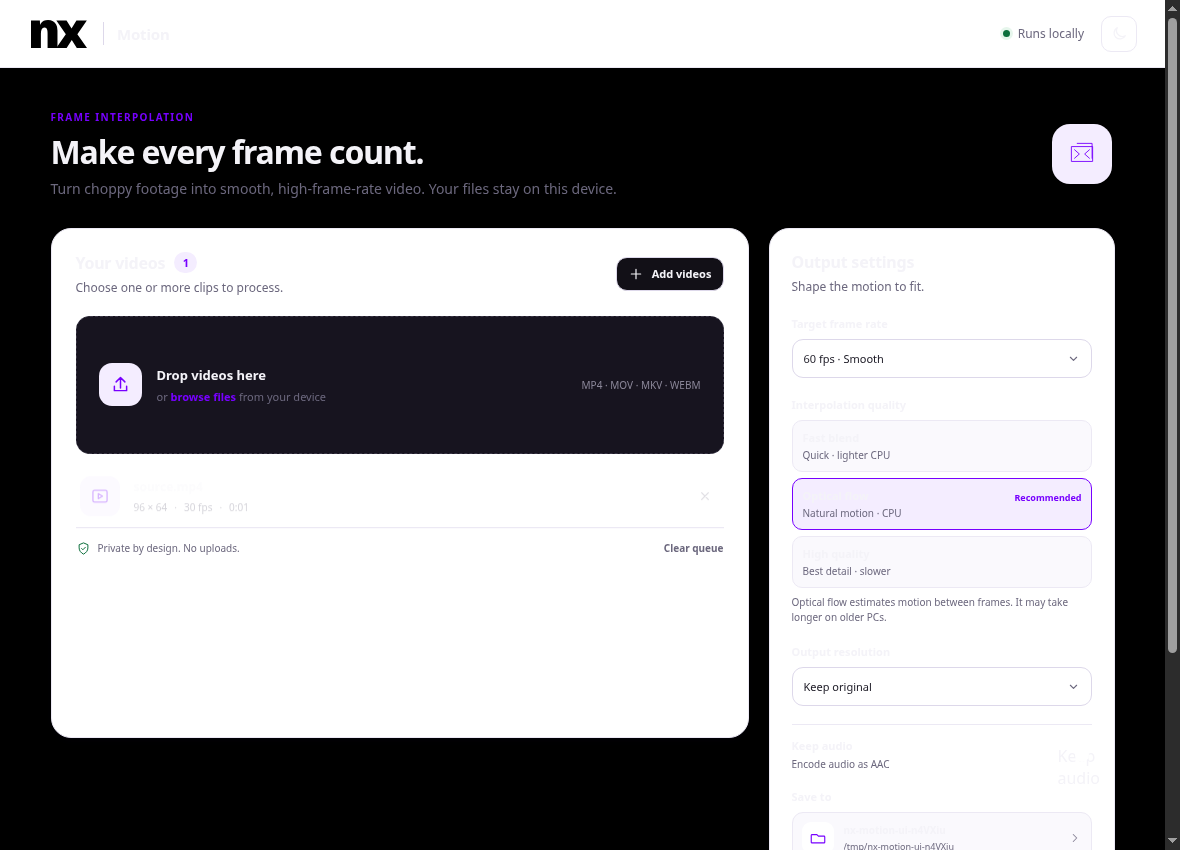
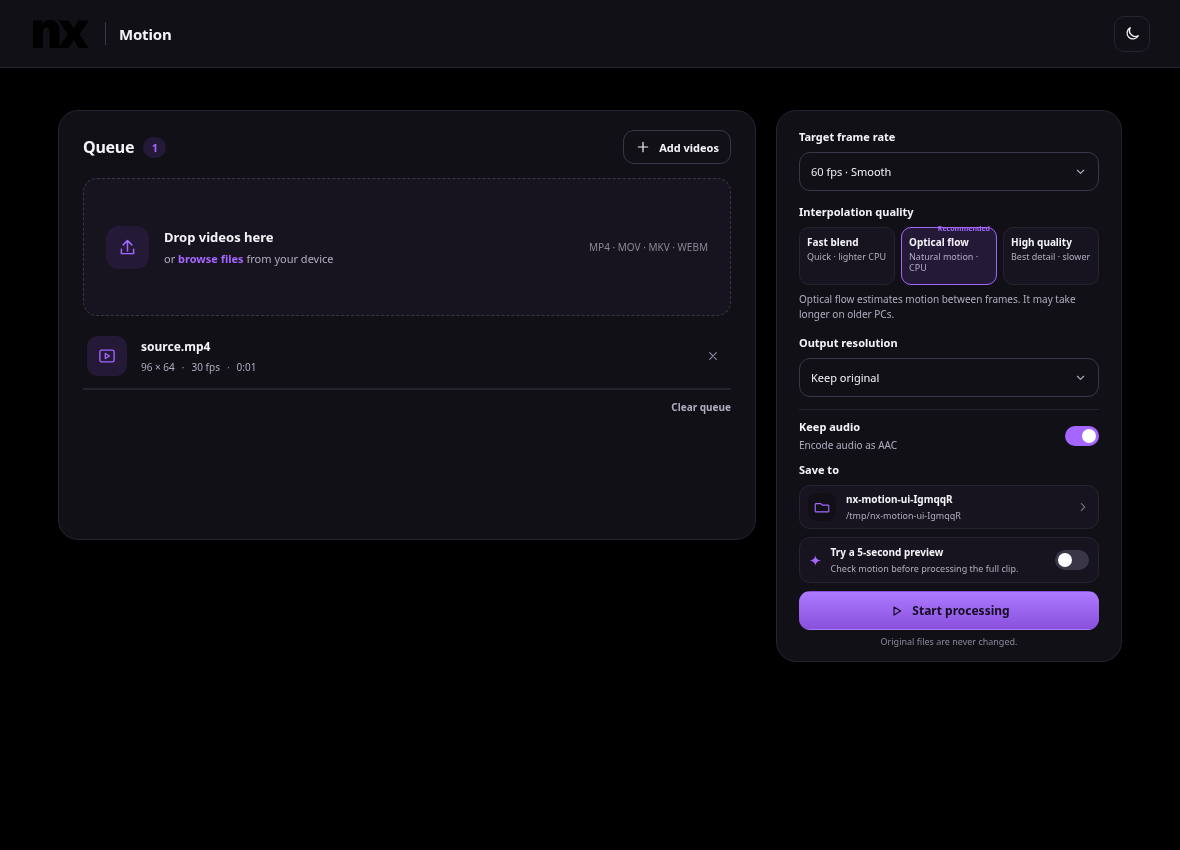
fix: trim UI copy and validate desktop export flow

diff --git a/src/renderer/styles.css b/src/renderer/styles.css
@@ -1,6 +1,10 @@
-:root{--clear-bg:#fafafc;--clear-surface:#fff;--clear-tile:#faf9fd;--clear-ink:#1a1823;--clear-muted:#6c687e;--clear-faint:#8b8799;--clear-line:#ece9f4;--clear-line-strong:#ddd8ea;--violet:#7700ff;--violet-soft:#f4edff;--accent-fill:linear-gradient(180deg,#8c37ff 0%,var(--violet) 100%);--on-accent:#fff;--good:#0c6f3c;--good-soft:#e6f6ec;--danger:#c22030;--radius-panel:20px;--radius-card:14px;--radius-control:11px;--shadow-card:0 1px 2px rgba(40,20,90,.05),0 4px 12px -4px rgba(40,20,90,.10);--focus:0 0 0 2px var(--violet),0 0 0 5px var(--violet-soft);font-family:'DM Sans',Inter,system-ui,-apple-system,'Segoe UI',sans-serif;color:var(--clear-ink);background:var(--clear-bg)}
 :root{--clear-bg:#fafafc;--clear-surface:#fff;--clear-tile:#faf9fd;--clear-ink:#1a1823;--clear-muted:#6c687e;--clear-faint:#8b8799;--clear-line:#ece9f4;--clear-line-strong:#ddd8ea;--violet:#7700ff;--violet-soft:#f4edff;--accent-fill:linear-gradient(180deg,#8c37ff 0%,var(--violet) 100%);--on-accent:#fff;--good:#0c6f3c;--good-soft:#e6f6ec;--danger:#c22030;--radius-panel:20px;--radius-card:14px;--radius-control:11px;--shadow-card:0 1px 2px rgba(40,20,90,.05),0 4px 12px -4px rgba(40,20,90,.10);--focus:0 0 0 2px var(--violet),0 0 0 5px var(--violet-soft);font-family:Inter,system-ui,-apple-system,'Segoe UI',sans-serif;color:var(--clear-ink);background:var(--clear-bg)}
 @media(prefers-color-scheme:dark){:root:not([data-theme="light"]){--clear-bg:#000;--clear-surface:#121017;--clear-tile:#17141f;--clear-ink:#f4f3f8;--clear-muted:#b0acbf;--clear-faint:#8b8799;--clear-line:#262330;--clear-line-strong:#3a3647;--violet:#a566ff;--violet-soft:#241a38;--accent-fill:linear-gradient(180deg,#ad7aff 0%,#8950dc 100%);--on-accent:#140b22;--good:#4cd97b;--good-soft:#12291b;--danger:#ff6876;--shadow-card:none}}
 :root[data-theme="dark"]{--clear-bg:#000;--clear-surface:#121017;--clear-tile:#17141f;--clear-ink:#f4f3f8;--clear-muted:#b0acbf;--clear-faint:#8b8799;--clear-line:#262330;--clear-line-strong:#3a3647;--violet:#a566ff;--violet-soft:#241a38;--accent-fill:linear-gradient(180deg,#ad7aff 0%,#8950dc 100%);--on-accent:#140b22;--good:#4cd97b;--good-soft:#12291b;--danger:#ff6876;--shadow-card:none}
 *{box-sizing:border-box}body{margin:0;min-width:320px;min-height:100vh;background:var(--clear-bg);color:var(--clear-ink);transition:background .2s,color .2s}button,input,select{font:inherit}button{color:inherit}button:focus-visible,a:focus-visible,[tabindex="0"]:focus-visible,select:focus-visible,input:focus-visible{outline:none;box-shadow:var(--focus)}.app-shell{min-height:100vh}.topbar{height:68px;border-bottom:1px solid var(--clear-line);display:flex;align-items:center;justify-content:space-between;padding:0 max(28px,calc((100% - 1120px)/2));background:var(--clear-surface)}.brand{display:flex;align-items:center;gap:13px;color:inherit;text-decoration:none}.brand img{width:62px;height:28px;object-fit:contain}.brand-divider{height:23px;border-left:1px solid var(--clear-line-strong)}.product-name{font-weight:650;font-size:15px;letter-spacing:-.2px}.topbar-right{display:flex;align-items:center;gap:17px}.local-badge{display:flex;align-items:center;gap:8px;font-size:12px;color:var(--clear-muted)}.local-dot{width:7px;height:7px;background:var(--good);border-radius:50%;box-shadow:0 0 0 3px var(--good-soft)}.icon-button{height:36px;width:36px;display:grid;place-items:center;border:1px solid var(--clear-line);background:var(--clear-surface);border-radius:10px;cursor:pointer}.icon-button:hover{background:var(--clear-tile)}.icon-button svg{width:17px;fill:none;stroke:currentColor;stroke-width:1.8;stroke-linecap:round;stroke-linejoin:round}.main-content{max-width:1120px;margin:0 auto;padding:42px 28px 24px}.intro{display:flex;align-items:center;justify-content:space-between;margin:0 0 30px}.eyebrow{margin:0 0 9px;color:var(--violet);font-size:10px;letter-spacing:1.35px;font-weight:700}.intro h1{font-size:32px;letter-spacing:-1.1px;margin:0 0 8px;font-weight:650;line-height:1.18}.intro-copy{margin:0;color:var(--clear-muted);font-size:14px}.intro-mark{width:60px;height:60px;border-radius:18px;background:var(--violet-soft);display:grid;place-items:center;margin-right:3px}.intro-mark svg{width:34px;fill:none;stroke:var(--violet);stroke-width:1.7;stroke-linecap:round;stroke-linejoin:round}.workspace{display:grid;grid-template-columns:minmax(0,1fr) 346px;align-items:start;gap:20px}.panel{background:var(--clear-surface);border:1px solid var(--clear-line);border-radius:var(--radius-panel);box-shadow:var(--shadow-card)}.queue-panel{padding:23px 24px 15px;min-height:510px}.settings-panel{padding:22px 22px 16px}.panel-heading{display:flex;align-items:center;justify-content:space-between;margin-bottom:20px}.panel-heading.compact{margin-bottom:21px}.panel-heading h2,.progress-heading h2{font-size:16px;margin:0;font-weight:650;letter-spacing:-.25px}.panel-heading p{font-size:12px;margin:5px 0 0;color:var(--clear-muted)}.heading-line{display:flex;align-items:center;gap:9px}.count-chip{background:var(--violet-soft);color:var(--violet);min-width:23px;height:21px;display:inline-grid;place-items:center;border-radius:999px;font-size:11px;font-weight:700}.button{border:1px solid transparent;border-radius:var(--radius-control);height:42px;padding:0 15px;display:inline-flex;align-items:center;justify-content:center;gap:8px;font-size:12px;font-weight:650;cursor:pointer;transition:filter .15s,transform .15s,background .15s}.button:active{transform:scale(.98)}.button:disabled{cursor:not-allowed;opacity:.48}.button svg{width:16px;fill:none;stroke:currentColor;stroke-width:1.8;stroke-linecap:round;stroke-linejoin:round}.button.small{height:34px;padding:0 11px;font-size:11px}.secondary{background:var(--clear-surface);border-color:var(--clear-line-strong)}.secondary:hover:not(:disabled){background:var(--clear-tile)}.primary{background:var(--accent-fill);color:var(--on-accent)}.primary:hover:not(:disabled){filter:brightness(1.07)}.drop-zone{min-height:138px;border:1px dashed var(--clear-line-strong);background:var(--clear-tile);border-radius:var(--radius-card);display:flex;align-items:center;padding:20px 22px;gap:15px;cursor:pointer;transition:border-color .16s,background .16s}.drop-zone:hover,.drop-zone.dragging{border-color:var(--violet);background:var(--violet-soft)}.drop-icon{width:43px;height:43px;display:grid;place-items:center;border-radius:13px;background:var(--violet-soft);color:var(--violet);flex:none}.drop-icon svg{width:21px;fill:none;stroke:currentColor;stroke-width:1.7;stroke-linecap:round;stroke-linejoin:round}.drop-copy{display:flex;flex-direction:column;gap:5px}.drop-copy strong{font-size:13px;font-weight:650}.drop-copy span{font-size:11px;color:var(--clear-muted)}.text-button{border:0;background:transparent;padding:0;color:var(--violet);font-size:inherit;font-weight:650;cursor:pointer}.text-button:hover{text-decoration:underline}.format-hint{margin-left:auto;color:var(--clear-faint);font-size:10px;white-space:nowrap}.queue{margin-top:8px}.queue-empty{display:flex;align-items:center;flex-direction:column;gap:6px;color:var(--clear-muted);font-size:12px;padding:29px 10px 32px}.queue-empty small{font-size:11px;color:var(--clear-faint)}.empty-symbol{display:grid;place-items:center;width:31px;height:31px;border:1px solid var(--clear-line);border-radius:10px;margin-bottom:2px;color:var(--clear-faint);font-size:16px}.queue-footer{border-top:1px solid var(--clear-line);padding-top:13px;display:flex;align-items:center;justify-content:space-between}.privacy-note{display:flex;align-items:center;gap:7px;color:var(--clear-muted);font-size:10px}.privacy-note svg{height:15px;width:15px;fill:none;stroke:var(--good);stroke-width:1.6;stroke-linecap:round;stroke-linejoin:round}.muted-button{color:var(--clear-muted);font-size:10px}.muted-button:disabled{color:var(--clear-faint)}.file-row{display:grid;grid-template-columns:42px minmax(0,1fr) auto;align-items:center;gap:12px;padding:12px 4px;border-bottom:1px solid var(--clear-line);animation:appear .18s ease-out}.file-icon{width:40px;height:40px;border-radius:11px;background:var(--violet-soft);display:grid;place-items:center;color:var(--violet)}.file-icon svg{width:20px;fill:none;stroke:currentColor;stroke-width:1.6;stroke-linecap:round;stroke-linejoin:round}.file-info{min-width:0}.file-name{font-size:12px;font-weight:600;overflow:hidden;text-overflow:ellipsis;white-space:nowrap}.file-meta{display:flex;flex-wrap:wrap;gap:7px;margin-top:5px;font-size:10px;color:var(--clear-muted)}.file-meta span+span:before{content:'·';margin-right:7px;color:var(--clear-faint)}.remove-file{border:0;background:transparent;color:var(--clear-faint);width:29px;height:29px;border-radius:8px;display:grid;place-items:center;cursor:pointer}.remove-file:hover{background:var(--clear-tile);color:var(--danger)}.remove-file svg{width:16px;fill:none;stroke:currentColor;stroke-width:1.8;stroke-linecap:round}.hidden{display:none!important}.setting-group{margin:0 0 19px}.field-label{display:block;font-size:11px;font-weight:650;margin:0 0 8px}.select-wrap{height:39px;border:1px solid var(--clear-line-strong);background:var(--clear-surface);border-radius:var(--radius-control);display:flex;align-items:center;position:relative}.select-wrap select{appearance:none;width:100%;height:100%;padding:0 34px 0 11px;border:0;background:transparent;color:var(--clear-ink);font-size:11px;cursor:pointer}.select-wrap svg{position:absolute;right:10px;width:15px;fill:none;stroke:var(--clear-muted);stroke-width:1.8;stroke-linecap:round;stroke-linejoin:round;pointer-events:none}.custom-fps{display:flex;align-items:center;gap:9px;margin-top:8px;color:var(--clear-muted);font-size:11px}.custom-fps input{width:100px;border:1px solid var(--clear-line-strong);background:var(--clear-surface);color:var(--clear-ink);height:34px;border-radius:9px;padding:0 9px}.quality-options{display:grid;grid-template-columns:1fr;gap:6px}.quality-card{position:relative;text-align:left;display:flex;flex-direction:column;gap:3px;border:1px solid var(--clear-line);background:var(--clear-tile);border-radius:10px;padding:9px 10px;cursor:pointer}.quality-card:hover{border-color:var(--clear-line-strong);background:var(--clear-surface)}.quality-card.selected{border-color:var(--violet);background:var(--violet-soft)}.quality-title{font-size:11px;font-weight:650}.quality-detail{font-size:10px;color:var(--clear-muted)}.recommended{position:absolute;right:9px;top:12px;color:var(--violet);font-size:9px;font-weight:650}.setting-hint{font-size:10px;line-height:1.5;color:var(--clear-muted);margin:7px 0 0}.setting-row{display:flex;align-items:center;justify-content:space-between;border-top:1px solid var(--clear-line);padding:13px 0;margin-top:-1px}.setting-row .field-label{margin:0 0 4px}.inline-hint{display:block;margin:0}.switch{display:inline-flex;position:relative;width:34px;height:20px;flex:none;cursor:pointer}.switch input{position:absolute;opacity:0;width:100%;height:100%;margin:0;cursor:pointer}.switch-track{width:34px;height:20px;border-radius:99px;background:var(--clear-line-strong);transition:background .16s}.switch-track:after{content:'';position:absolute;width:14px;height:14px;background:#fff;border-radius:50%;left:3px;top:3px;transition:transform .16s}.switch input:checked+.switch-track{background:var(--violet)}.switch input:checked+.switch-track:after{transform:translateX(14px)}.switch input:focus-visible+.switch-track{box-shadow:var(--focus)}.output-group{margin-top:4px;margin-bottom:12px}.output-picker{width:100%;min-width:0;display:flex;align-items:center;text-align:left;gap:10px;padding:9px;border:1px solid var(--clear-line);border-radius:11px;background:var(--clear-tile);cursor:pointer}.output-picker:hover{background:var(--clear-surface);border-color:var(--clear-line-strong)}.folder-icon{width:32px;height:32px;background:var(--clear-surface);border-radius:9px;display:grid;place-items:center;color:var(--violet);flex:none}.folder-icon svg{width:18px;fill:none;stroke:currentColor;stroke-width:1.5;stroke-linejoin:round}.output-text{display:flex;flex-direction:column;gap:3px;min-width:0;flex:1}.output-text strong{font-size:10px;font-weight:650;overflow:hidden;text-overflow:ellipsis;white-space:nowrap}.output-text small{font-size:9px;color:var(--clear-muted);overflow:hidden;text-overflow:ellipsis;white-space:nowrap}.chevron{width:14px;fill:none;stroke:var(--clear-faint);stroke-width:1.8;stroke-linecap:round;stroke-linejoin:round}.preview-note{display:flex;align-items:center;gap:9px;padding:10px;border:1px solid var(--clear-line);border-radius:11px;background:var(--clear-tile);margin-bottom:12px}.sparkle{color:var(--violet);font-size:15px}.preview-note>span:nth-child(2){display:flex;flex-direction:column;gap:3px;flex:1}.preview-note strong{font-size:10px;font-weight:650}.preview-note small{font-size:9px;color:var(--clear-muted)}.start-button{width:100%;height:43px;font-size:12px}.settings-footnote{text-align:center;font-size:9px;color:var(--clear-faint);margin:9px 0 0}.error-message{font-size:11px;color:var(--danger);line-height:1.45;background:color-mix(in srgb,var(--danger) 8%,var(--clear-surface));border-radius:9px;padding:9px 10px;margin:0 0 11px}.cancel-button{width:100%;margin-top:8px}.progress-panel{margin-top:20px;padding:20px 22px}.progress-heading{display:flex;justify-content:space-between;align-items:center}.progress-heading .eyebrow{margin-bottom:5px;font-size:9px}.progress-heading h2{font-size:14px}.progress-percent{font-size:20px;font-weight:650;letter-spacing:-.5px;color:var(--violet)}.progress-track{height:7px;background:var(--clear-tile);border-radius:9px;overflow:hidden;margin:17px 0 9px}.progress-bar{width:0;height:100%;background:var(--accent-fill);border-radius:9px;transition:width .24s ease}.progress-meta{display:flex;justify-content:space-between;gap:12px;color:var(--clear-muted);font-size:10px}.results{margin-top:10px}.result-row{display:flex;align-items:center;gap:8px;padding:8px 0;border-top:1px solid var(--clear-line);font-size:10px}.result-name{flex:1;min-width:0;overflow:hidden;text-overflow:ellipsis;white-space:nowrap}.result-status{color:var(--good)}.result-status.error{color:var(--danger)}.reveal-button{color:var(--violet);border:0;background:transparent;font-size:10px;font-weight:600;cursor:pointer}.app-footer{display:flex;justify-content:space-between;align-items:center;color:var(--clear-faint);font-size:10px;padding:24px 2px 0}.footer-dot{padding:0 4px;color:var(--clear-line-strong)}.windows-mark{font-size:15px;vertical-align:-1px;margin-left:3px}@keyframes appear{from{opacity:0;transform:translateY(3px)}to{opacity:1;transform:translateY(0)}}@media(max-width:760px){.main-content{padding:30px 18px 20px}.topbar{padding:0 18px}.workspace{grid-template-columns:1fr}.queue-panel{min-height:0}.settings-panel{order:2}.intro{margin-bottom:23px}.intro h1{font-size:27px}.intro-mark{width:48px;height:48px;border-radius:15px}.intro-mark svg{width:28px}.progress-meta{flex-direction:column;gap:4px}}@media(max-width:460px){.topbar{height:60px}.main-content{padding:25px 13px 18px}.intro{align-items:flex-start}.intro h1{font-size:24px}.intro-copy{font-size:12px;max-width:270px;line-height:1.55}.intro-mark{display:none}.queue-panel,.settings-panel{padding:18px 15px 14px;border-radius:16px}.drop-zone{min-height:124px;gap:11px;padding:15px}.format-hint{display:none}.panel-heading{gap:8px}.app-footer{font-size:9px}.local-badge{font-size:0}.local-dot{font-size:initial}}
 @media(prefers-reduced-motion:reduce){*,*:before,*:after{scroll-behavior:auto!important;animation-duration:.01ms!important;animation-iteration-count:1!important;transition-duration:.01ms!important}}
+.sr-only{position:absolute!important;width:1px!important;height:1px!important;padding:0!important;margin:-1px!important;overflow:hidden!important;clip:rect(0,0,0,0)!important;white-space:nowrap!important;border:0!important}
+.intro{margin:0 0 18px}.intro h1{font-size:23px;letter-spacing:-.5px}.panel-heading{margin-bottom:14px}.panel-heading.compact{margin-bottom:15px}.queue-panel{min-height:430px;padding-top:19px}.settings-panel{padding-top:18px;padding-bottom:13px}.setting-group{margin-bottom:13px}.quality-options{grid-template-columns:repeat(3,minmax(0,1fr));gap:6px}.quality-card{min-height:58px;padding:7px}.quality-title{font-size:10px}.quality-detail{font-size:9px;line-height:1.2}.recommended{right:3px;top:-6px;padding:2px 3px;font-size:7px}.setting-row{padding:9px 0}.output-group{margin-top:0;margin-bottom:8px}.output-picker{padding:6px 8px}.folder-icon{width:28px;height:28px}.preview-note{padding:7px 9px;margin-bottom:8px}.start-button{height:39px}.settings-footnote{margin-top:5px}.queue-footer{padding-top:10px}
+html[data-theme="dark"]{--clear-bg:#000;--clear-surface:#121017;--clear-tile:#17141f;--clear-ink:#f4f3f8;--clear-muted:#b0acbf;--clear-faint:#8b8799;--clear-line:#262330;--clear-line-strong:#3a3647;--violet:#a566ff;--violet-soft:#241a38;--accent-fill:linear-gradient(180deg,#ad7aff 0%,#8950dc 100%);--on-accent:#140b22;--good:#4cd97b;--good-soft:#12291b;--danger:#ff6876;--shadow-card:none;color-scheme:dark}
+html[data-theme="light"]{color-scheme:light}
+html[data-theme="dark"] .brand img{filter:invert(1)}

diff --git a/src/renderer/index.html b/src/renderer/index.html
@@ -12,41 +12,39 @@
   <div class="app-shell">
     <header class="topbar">
       <a class="brand" href="#" aria-label="NX Motion home"><img src="../../assets/wordmark.svg" alt="NX"><span class="brand-divider"></span><span class="product-name">Motion</span></a>
-      <div class="topbar-right"><span class="local-badge"><span class="local-dot"></span>Runs locally</span><button class="theme-toggle icon-button" id="theme-toggle" type="button" aria-label="Switch to dark theme" title="Switch theme"><svg viewBox="0 0 24 24" aria-hidden="true"><path d="M20.2 15.1A8.3 8.3 0 0 1 8.9 3.8 8.4 8.4 0 1 0 20.2 15.1Z"/></svg></button></div>
+      <div class="topbar-right"><button class="theme-toggle icon-button" id="theme-toggle" type="button" aria-label="Switch to dark theme" title="Switch theme"><svg viewBox="0 0 24 24" aria-hidden="true"><path d="M20.2 15.1A8.3 8.3 0 0 1 8.9 3.8 8.4 8.4 0 1 0 20.2 15.1Z"/></svg></button></div>
     </header>
 
     <main class="main-content">
-      <section class="intro"><div><p class="eyebrow">FRAME INTERPOLATION</p><h1>Make every frame count.</h1><p class="intro-copy">Turn choppy footage into smooth, high-frame-rate video. Your files stay on this device.</p></div><div class="intro-mark" aria-hidden="true"><svg viewBox="0 0 64 64"><path d="M12 18h40v28H12zM23 12h28v28M18 24l9 8-9 8M46 24l-9 8 9 8"/></svg></div></section>
+      
 
       <div class="workspace">
         <section class="panel queue-panel" aria-labelledby="queue-title">
-          <div class="panel-heading"><div><div class="heading-line"><h2 id="queue-title">Your videos</h2><span id="queue-count" class="count-chip">0</span></div><p>Choose one or more clips to process.</p></div><button class="button secondary small" id="add-files" type="button"><svg viewBox="0 0 24 24" aria-hidden="true"><path d="M12 5v14M5 12h14"/></svg>Add videos</button></div>
+          <div class="panel-heading"><div><div class="heading-line"><h2 id="queue-title">Queue</h2><span id="queue-count" class="count-chip">0</span></div></div><button class="button secondary small" id="add-files" type="button"><svg viewBox="0 0 24 24" aria-hidden="true"><path d="M12 5v14M5 12h14"/></svg>Add videos</button></div>
           <div class="drop-zone" id="drop-zone" tabindex="0" role="button" aria-label="Add videos by dropping them here or choosing files">
             <div class="drop-icon"><svg viewBox="0 0 24 24" aria-hidden="true"><path d="M12 16V4m0 0L7 9m5-5 5 5M5 14v5h14v-5"/></svg></div>
             <div class="drop-copy"><strong>Drop videos here</strong><span>or <button class="text-button" id="browse-files" type="button">browse files</button> from your device</span></div>
             <span class="format-hint">MP4 · MOV · MKV · WEBM</span>
           </div>
           <div id="queue" class="queue" aria-live="polite"></div>
-          <div id="queue-empty" class="queue-empty"><span class="empty-symbol">↗</span><span>Your queue is ready</span><small>Videos you add will appear here.</small></div>
-          <div class="queue-footer"><span class="privacy-note"><svg viewBox="0 0 24 24" aria-hidden="true"><path d="M12 3 5 6v5c0 4.5 2.9 7.9 7 10 4.1-2.1 7-5.5 7-10V6l-7-3Zm-3 9 2 2 4-4"/></svg>Private by design. No uploads.</span><button id="clear-queue" class="text-button muted-button" type="button" disabled>Clear queue</button></div>
+          <div class="queue-footer"><span></span><button id="clear-queue" class="text-button muted-button" type="button" disabled>Clear queue</button></div>
         </section>
 
-        <aside class="panel settings-panel" aria-labelledby="settings-title">
-          <div class="panel-heading compact"><div><h2 id="settings-title">Output settings</h2><p>Shape the motion to fit.</p></div></div>
-          <div class="setting-group"><label class="field-label" for="fps-select">Target frame rate</label><div class="select-wrap"><select id="fps-select"><option value="60" selected>60 fps <span>· Smooth</span></option><option value="90">90 fps · Extra smooth</option><option value="120">120 fps · Maximum</option><option value="custom">Custom…</option></select><svg viewBox="0 0 24 24" aria-hidden="true"><path d="m7 10 5 5 5-5"/></svg></div><div id="custom-fps-wrap" class="custom-fps hidden"><input id="custom-fps" type="number" min="24" max="240" value="60" aria-label="Custom frame rate"><span>fps</span></div></div>
-          <div class="setting-group"><span class="field-label">Interpolation quality</span><div class="quality-options" role="radiogroup" aria-label="Interpolation quality"><button class="quality-card" data-quality="fast" type="button" role="radio" aria-checked="false"><span class="quality-title">Fast blend</span><span class="quality-detail">Quick · lighter CPU</span></button><button class="quality-card selected" data-quality="balanced" type="button" role="radio" aria-checked="true"><span class="quality-title">Optical flow</span><span class="quality-detail">Natural motion · CPU</span><span class="recommended">Recommended</span></button><button class="quality-card" data-quality="high" type="button" role="radio" aria-checked="false"><span class="quality-title">High quality</span><span class="quality-detail">Best detail · slower</span></button></div><p class="setting-hint">Optical flow estimates motion between frames. It may take longer on older PCs.</p></div>
+        <aside class="panel settings-panel" aria-label="Output settings">
+          
+          <div class="setting-group"><label class="field-label" for="fps-select">Target frame rate</label><div class="select-wrap"><select id="fps-select"><option value="60" selected>60 fps</option><option value="90">90 fps</option><option value="120">120 fps</option><option value="custom">Custom…</option></select><svg viewBox="0 0 24 24" aria-hidden="true"><path d="m7 10 5 5 5-5"/></svg></div><div id="custom-fps-wrap" class="custom-fps hidden"><input id="custom-fps" type="number" min="24" max="240" value="60" aria-label="Custom frame rate"><span>fps</span></div></div>
+          <div class="setting-group"><span class="field-label">Interpolation quality</span><div class="quality-options" role="radiogroup" aria-label="Interpolation quality"><button class="quality-card" data-quality="fast" type="button" role="radio" aria-checked="false"><span class="quality-title">Fast blend</span><span class="quality-detail">Quick · lighter CPU</span></button><button class="quality-card selected" data-quality="balanced" type="button" role="radio" aria-checked="true"><span class="quality-title">Optical flow</span><span class="quality-detail">Natural motion · CPU</span></button><button class="quality-card" data-quality="high" type="button" role="radio" aria-checked="false"><span class="quality-title">High quality</span><span class="quality-detail">Best detail · slower</span></button></div></div>
           <div class="setting-group"><label class="field-label" for="resolution">Output resolution</label><div class="select-wrap"><select id="resolution"><option value="original" selected>Keep original</option><option value="1080">1080p</option><option value="720">720p</option></select><svg viewBox="0 0 24 24" aria-hidden="true"><path d="m7 10 5 5 5-5"/></svg></div></div>
           <div class="setting-row"><div><span class="field-label">Keep audio</span><span class="setting-hint inline-hint">Encode audio as AAC</span></div><label class="switch"><input id="audio-toggle" type="checkbox" checked><span class="switch-track"></span><span class="sr-only">Keep audio</span></label></div>
           <div class="setting-group output-group"><span class="field-label">Save to</span><button id="output-picker" class="output-picker" type="button"><span class="folder-icon"><svg viewBox="0 0 24 24" aria-hidden="true"><path d="M3.5 7.5h7l2 2H20a1 1 0 0 1 1 1v7a1 1 0 0 1-1 1H4a1 1 0 0 1-1-1v-9a1 1 0 0 1 .5-1Z"/></svg></span><span class="output-text"><strong id="output-label">Choose a folder</strong><small id="output-subtitle">Select where processed videos should go</small></span><svg class="chevron" viewBox="0 0 24 24" aria-hidden="true"><path d="m9 18 6-6-6-6"/></svg></button></div>
-          <div class="preview-note"><span class="sparkle">✦</span><span><strong>Try a 5-second preview</strong><small>Check motion before processing the full clip.</small></span><label class="switch"><input id="preview-toggle" type="checkbox"><span class="switch-track"></span><span class="sr-only">Create a 5-second preview</span></label></div>
+          <div class="preview-note"><span class="sparkle">✦</span><span><strong>5-second preview</strong><small>Check motion before processing the full clip.</small></span><label class="switch"><input id="preview-toggle" type="checkbox"><span class="switch-track"></span><span class="sr-only">Create a 5-second preview</span></label></div>
           <div id="error-message" class="error-message hidden" role="alert"></div>
           <button id="start-button" class="button primary start-button" type="button" disabled><svg viewBox="0 0 24 24" aria-hidden="true"><path d="m9 6 10 6-10 6V6Z"/></svg><span>Start processing</span></button>
           <button id="cancel-button" class="button secondary cancel-button hidden" type="button">Cancel processing</button>
-          <p class="settings-footnote">Original files are never changed.</p>
+          
         </aside>
       </div>
       <section id="progress-panel" class="panel progress-panel hidden" aria-live="polite"><div class="progress-heading"><div><span class="eyebrow">PROCESSING QUEUE</span><h2 id="progress-title">Getting things ready…</h2></div><span id="progress-percent" class="progress-percent">0%</span></div><div class="progress-track"><div id="progress-bar" class="progress-bar"></div></div><div class="progress-meta"><span id="progress-file">Preparing your videos</span><span id="progress-status">This may take a little while.</span></div><div id="results" class="results"></div></section>
-      <footer class="app-footer"><span>NX Motion <span class="footer-dot">·</span> Made for your videos</span><span>Built for Windows <span class="windows-mark">⊞</span></span></footer>
     </main>
   </div>
   <script src="app.js"></script>

diff --git a/src/renderer/app.js b/src/renderer/app.js
@@ -3,7 +3,6 @@
   const api = window.motion;
   const state = { files: [], outputDir: null, quality: 'balanced', busy: false, results: new Map() };
   const queueEl = $('#queue');
-  const emptyEl = $('#queue-empty');
   const errorEl = $('#error-message');
 
   function showError(message) {
@@ -28,7 +27,6 @@
   function renderQueue() {
     queueEl.replaceChildren();
     $('#queue-count').textContent = String(state.files.length);
-    emptyEl.classList.toggle('hidden', state.files.length > 0);
     $('#clear-queue').disabled = !state.files.length || state.busy;
     $('#add-files').disabled = state.busy;
     $('#browse-files').disabled = state.busy;

diff --git a/THIRD-PARTY-NOTICES.md b/THIRD-PARTY-NOTICES.md
@@ -1,12 +1,15 @@
 # Third-party notices
 
-NX Motion bundles FFmpeg 6.1.1 from `ffmpeg-static` 5.3.0 for Windows x64.
-The package identifies the binary provider as the Gyan Windows builds. The
-binary's license notice is included beside it as `ffmpeg.LICENSE` in the
-application resources.
+NX Motion bundles the Windows x64 FFmpeg binary supplied by `ffmpeg-static`
+5.3.0. That package's upstream README advertises FFmpeg 6.1.1 and identifies
+Gyan's Windows builds as the binary provider; the downloaded binary's own
+`ffmpeg.README` in the application resources records its exact build and
+libraries. The binary's license notice is included beside it as
+`ffmpeg.LICENSE` in the application resources.
 
-The FFmpeg binary is licensed under GPL-3.0-or-later. The corresponding FFmpeg
-source is available from the [FFmpeg 6.1.1 source tag](https://github.com/FFmpeg/FFmpeg/tree/n6.1.1).
+The FFmpeg binary is licensed under GPL-3.0-or-later. The matching FFmpeg
+source revision is linked from its bundled `ffmpeg.README`; the upstream
+versioned sources are available from [FFmpeg](https://github.com/FFmpeg/FFmpeg).
 The binary package and build details are available from the
 [`ffmpeg-static` b6.1.1 release](https://github.com/eugeneware/ffmpeg-static/releases/tag/b6.1.1)
 and the [Gyan Windows builds project](https://www.gyan.dev/ffmpeg/builds/).

diff --git a/README.md b/README.md
@@ -1,12 +1,12 @@
 # NX Motion
 
 NX Motion turns ordinary video into smoother, higher-frame-rate video. It is a
-small Windows-first desktop app with a mint NX interface and FFmpeg processing
+Windows-first desktop app with the NX Clear interface and FFmpeg processing
 that runs locally.
 
 ## What it does
 
-- Interpolates video from 30 fps to 60 fps, or to a chosen target from 1–240 fps.
+- Interpolates video from 30 fps to 60 fps, or to a chosen target from 24–240 fps.
 - Offers balanced, high-quality, and fast processing modes.
 - Keeps the source resolution or scales output to 1080p or 720p.
 - Preserves audio, shows progress, supports cancellation, and processes batches.
